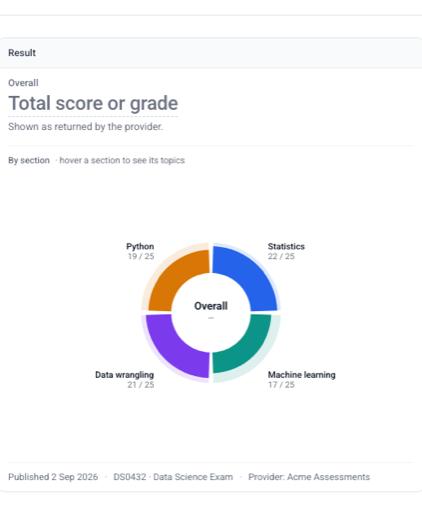
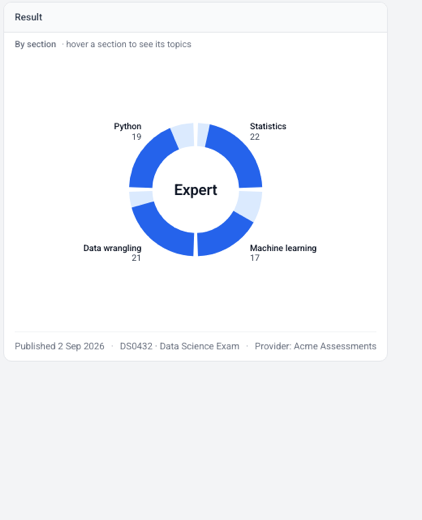
Score views study: new donut and the PM's intro copy
The donut uses one shade: the ring in its light tone, the scored part
solid, each section filling from the bottom up. The result sits in the
centre, and sections show just the score (17, not 17 / 25).

diff --git a/feedback/prototype.html b/feedback/prototype.html
@@ -1465,6 +1465,10 @@ input.edt{height:34px}
 .radj{display:flex;gap:7px;align-items:flex-start;margin:0 0 6px 22px;padding:6px 9px;border-radius:7px;background:var(--o50);color:var(--o700);font:400 12px/18px var(--font)}
 .radj svg{width:12px;height:12px;flex:0 0 auto;margin-top:3px}
 .radj b{font-weight:500}.radj s{color:var(--tt)}
+
+/* an embedded certificate fills the section width */
+.cembed{margin:12px 0 4px;border:1px solid var(--border);border-radius:10px;overflow:hidden;background:var(--g50)}
+.cembed .cpin{margin:0;width:100%;max-width:none;box-shadow:none;border-radius:0}
 /* study mode: only the result panel, full width, scrolling normally */
 .solo .proto,.solo .rail,.solo .main,.solo .dcbtn,.solo .phead,.solo .screen>.shead{display:none!important}
 .solo body,.solo .app,.solo .scrim,.solo .drawer,.solo .screen,.solo .sbody{background:#F3F4F6!important}
@@ -1473,6 +1477,30 @@ input.edt{height:34px}
 .solo .drawer{width:100%;max-width:none;height:100%;box-shadow:none}
 .solo .sin{padding:2px 4px 28px}
 .solo .tcard{margin-top:0}
+/* donut, one shade: light tone for the ring, solid for what was scored */
+.dnw3{--dh:#2563EB;--dl:#DBEAFE;max-width:470px;margin:2px auto 0}
+.dnw3.st{max-width:400px;pointer-events:none}
+.dnw3.one{max-width:210px}
+.dn3{display:block;width:100%;height:auto;overflow:visible}
+.dn3 .dsec{outline:none}
+.dn3 .dhit{fill:transparent}
+.dn3 .drt,.dn3 .dot{fill:var(--dl)}
+.dn3 .drf,.dn3 .dof{fill:var(--dh)}
+.dn3 text{font-family:var(--font);fill:var(--tp)}
+.dn3 .t1{font-size:12px;font-weight:500}
+.dn3 .t2{font-size:12px;fill:var(--ts)}
+.dn3 .dsl .t1{font-size:10.5px}.dn3 .dsl .t2{font-size:10.5px}
+.dn3 .dc0{font-weight:600;fill:var(--tp);letter-spacing:-.01em}
+.dn3 .din,.dn3 .dlab,.dn3 .dc0,.dn3 .dctr{transition:opacity .2s ease}
+.dn3 .dctr{opacity:0}.dn3 .dctr .t1{font-size:13px;font-weight:600}.dn3 .dctr .t2{font-size:12.5px}
+.dn3 .douter{opacity:0;transform:scale(.9);transform-box:view-box;transform-origin:180px 170px;pointer-events:none;
+ transition:opacity .28s ease,transform .38s cubic-bezier(.2,.8,.2,1)}
+.dn3 .dsec:hover .douter,.dn3 .dsec:focus-visible .douter{opacity:1;transform:scale(1)}
+.dn3:has(.dsec:hover,.dsec:focus-visible) .dc0{opacity:0}
+.dn3 .dsec:hover .dctr,.dn3 .dsec:focus-visible .dctr{opacity:1}
+.dn3:has(.dsec:hover,.dsec:focus-visible) .dlab{opacity:0}
+.dn3:has(.dsec:hover,.dsec:focus-visible) .dsec:not(:hover):not(:focus-visible) .din{opacity:.35}
+@media (prefers-reduced-motion:reduce){.dn3 .douter,.dn3 .din,.dn3 .dlab,.dn3 .dctr,.dn3 .dc0{transition:none}}
 </style>
 <div class="proto"><span class="ttl">Candidate profile · v2 · Coordinator Console</span>
   <span class="hint">Feedback prototype · three candidates, one score view each</span></div>
@@ -4105,10 +4133,12 @@ function credDetailH(X,x){const st=credStatus(X,x), T=(h,i)=>`<div class="tcard"
  const why=X.why&&(X.cs==='withheld'||X.cs==='revoked'||X.cs==='disqualified')?`<p class="cwhy"><span>${E(st.k)} ${E(X.on||'')}</span>${E(X.why)}</p>`:'';
  const tiles=[];
  if(X.badge) tiles.push(`<button class="ctile" data-act3="${E(X.where||'View badge')}"><span class="cti">${BADGE_ART}</span><span class="bd"><b>Badge</b><span>View on ${E(X.issuer)}</span></span>${IV.ext}</button>`);
- if(X.cert){const k='pdf'+(ZK++);tiles.push(`<button class="ctile" data-pdfopen="${k}"><span class="cti cert">${CERT_ART}</span><span class="bd"><b>Certificate</b><span>PDF · 1 page</span></span>${IV.ext}</button>${pdfModalH({kind:'pdf',file:'Certificate_'+X.id+'.pdf',pages:1,html:`<span class="pk">${E(X.issuer)}</span><b class="ph">${E(CFG.cred)}</b><span class="pm">Awarded to ${E(x.name)} · ${E(X.issued)}</span><span class="pm">Credential ID ${E(X.id)}</span>`},x,k)}`);}
+ /* a certificate we hold can sit right in the section, shown as the certificate itself */
+ const certEmbed=X.cert&&X.embed?`<div class="cembed">${certDoc({id:X.id,on:X.issued,till:X.expires},1).replace(/<span class="cpb">[\s\S]*?<\/span>/,'').replace(/ tier t-\w+/,'')}</div>`:'';
+ if(X.cert&&!X.embed){const k='pdf'+(ZK++);tiles.push(`<button class="ctile" data-pdfopen="${k}"><span class="cti cert">${CERT_ART}</span><span class="bd"><b>Certificate</b><span>PDF · 1 page</span></span>${IV.ext}</button>${pdfModalH({kind:'pdf',file:'Certificate_'+X.id+'.pdf',pages:1,html:`<span class="pk">${E(X.issuer)}</span><b class="ph">${E(CFG.cred)}</b><span class="pm">Awarded to ${E(x.name)} · ${E(X.issued)}</span><span class="pm">Credential ID ${E(X.id)}</span>`},x,k)}`);}
  const none=!ISSUED[X.cs]?`<p class="cnone">${X.cs==='disqualified'?'Nothing was issued.':'The badge and certificate appear here once the credential is issued.'}</p>`:'';
  const meta=!ISSUED[X.cs]?[`Issued by ${E(X.issuer)}`,'Not issued']:[`Issued by ${E(X.issuer)}`,E(X.id),`Issued ${E(X.issued)}`,(X.cs==='expired'?'Expired ':'Expires ')+E(X.expires)];
- return T('Credential',why+(tiles.length?`<div class="ctiles">${tiles.join('')}</div>`:none)+`<p class="sfoot cid">${meta.map(m=>`<span>${m}</span>`).join('')}</p>`)
+ return T('Credential',why+certEmbed+(tiles.length?`<div class="ctiles">${tiles.join('')}</div>`:certEmbed?'':none)+`<p class="sfoot cid">${meta.map(m=>`<span>${m}</span>`).join('')}</p>`)
   +(X.attrs&&X.attrs.length&&ISSUED[X.cs]?T('From '+E(X.issuer),blockH(ROWS('',X.attrs.map(r=>[E(r[0]),E(r[1])])))):'');}
 function credActs(X){const b=(t,cls,at)=>`<button class="btn ${cls||''}" ${at}>${E(t)}</button>`;
  return {review:b('Withhold','',`data-act3="Withhold the credential"`)+b('Issue credential','pri',`data-act3="Issue the credential"`),
@@ -4116,7 +4146,7 @@ function credActs(X){const b=(t,cls,at)=>`<button class="btn ${cls||''}" ${at}>$
   disqualified:'',revoked:b('Reissue','',`data-act3="Reissue the credential"`),expired:b('Renew','pri',`data-act3="Renew the credential"`)}[X.cs]||'';}
 /* the three candidates' credentials, in the standard model */
 (function(){const S=(id,o)=>{const c=CANDS.find(z=>z.id===id); if(c) c.xcred=Object.assign({mode:'std',issuer:'Credly',attrs:[['Skills','Statistics, Machine learning, SQL, Python'],['Earning criteria','Pass DS0432 Data Science Exam']]},o);};
- S('ethan',{cs:'credentialed',pub:'16 Sep 2026',issuer:'Talview',badge:1,cert:1,id:'CERT-DS-44207',issued:'16 Sep 2026',expires:'16 Sep 2028',where:'Open public page',attrs:[]});
+ S('ethan',{cs:'credentialed',pub:'16 Sep 2026',issuer:'Talview',badge:1,cert:1,embed:1,id:'CERT-DS-44207',issued:'16 Sep 2026',expires:'16 Sep 2028',where:'Open public page',attrs:[]});
  S('liam',{cs:'expired',badge:1,cert:0,id:'CR-54872',issued:'20 Jul 2026',expires:'20 Sep 2026',where:'View on Credly'});
  S('mason',{cs:'revoked',badge:1,cert:1,id:'CR-53310',issued:'8 Aug 2026',expires:'8 Aug 2028',on:'12 Aug 2026',why:'Issued before the dispute closed',where:'View on Credly'});
  S('james',{cs:'withheld',on:'30 Aug 2026',why:'Held by Divya K. for an identity re-check'});
@@ -4189,6 +4219,42 @@ function payBits(c,pay){
  const q=new URLSearchParams(location.search), id=q.get('open'), i=CANDS.findIndex(c=>c.id===id);
  if(i>-1){ci=i;open=true;stack=['det:scoring|Assessment result'];}
  if(q.get('solo')) document.documentElement.classList.add('solo');})();
+/* donut: one shade — the whole ring in its light tone, the scored part solid, each section filling from the bottom up */
+const dv=v=>v.na?'Not attempted':v.m?String(v.m[0]):(CFG.card.lv[v.lv-1]||'Not assessed');
+const dfull=v=>v.na?'Not attempted':v.m?v.m[0]+' of '+v.m[1]:(CFG.card.lv[v.lv-1]||'Not assessed');
+const dfrac=v=>v.na?0:nv(v);
+const ovOf=b=>b.t==='one'?dv(b.v):b.t==='stot'?String(+F1(b.s.n)):String(b.ov);
+function donutHvH(S,b,live){
+ const one=b.t==='one'; if(one) S=[{n:'Result',sh:'',v:b.v,subs:[]}];
+ const cx=180, cy=170, r0=one?66:60, r1=one?96:92, r2=99, r3=124, n=S.length, sp=360/n, g=n>1?4:0, gs=2.4;
+ const P=(a,r)=>[cx+r*Math.cos((a-90)*Math.PI/180),cy+r*Math.sin((a-90)*Math.PI/180)], f1=v=>v.toFixed(2);
+ const arc=(a0,a1,ra,rb)=>{
+  if(a1-a0>=359.9) return `M${cx} ${cy-rb}A${rb} ${rb} 0 1 1 ${cx} ${cy+rb}A${rb} ${rb} 0 1 1 ${cx} ${cy-rb}ZM${cx} ${cy-ra}A${ra} ${ra} 0 1 0 ${cx} ${cy+ra}A${ra} ${ra} 0 1 0 ${cx} ${cy-ra}Z`;
+  const p0=P(a0,rb),p1=P(a1,rb),p2=P(a1,ra),p3=P(a0,ra),L=a1-a0>180?1:0;
+  return `M${f1(p0[0])} ${f1(p0[1])}A${rb} ${rb} 0 ${L} 1 ${f1(p1[0])} ${f1(p1[1])}L${f1(p2[0])} ${f1(p2[1])}A${ra} ${ra} 0 ${L} 0 ${f1(p3[0])} ${f1(p3[1])}Z`;};
+ /* the part of a section nearest the bottom of the ring, as long as the score */
+ const low=(a0,a1,f)=>{const L=(a1-a0)*Math.max(0,Math.min(1,f)); if(L<=0.01) return null; if(L>=a1-a0-0.01) return [a0,a1];
+  if(a0<=180&&180<=a1){let s=180-L/2,e=180+L/2; if(s<a0){e+=a0-s;s=a0;} if(e>a1){s-=e-a1;e=a1;} return [s,e];}
+  return a1<=180?[a1-L,a1]:[a0,a0+L];};
+ const seg=(a0,a1,ra,rb,v,cls)=>{const q=low(a0,a1,dfrac(v));return `<path d="${arc(a0,a1,ra,rb)}" class="${cls}t"/>${q?`<path d="${arc(q[0],q[1],ra,rb)}" class="${cls}f"/>`:''}`;};
+ const txt=(a,r,l1,l2,cls)=>{const [x,y]=P(a,r), an=x>cx+6?'start':x<cx-6?'end':'middle', dy=y<cy-r*.6?-8:y>cy+r*.6?10:0;
+   return `<text class="${cls}" x="${f1(x)}" y="${f1(y+dy)}" text-anchor="${an}"><tspan class="t1">${E(l1)}</tspan><tspan class="t2" x="${f1(x)}" dy="14">${E(l2)}</tspan></text>`;};
+ const big=(l,cls)=>{const s=String(l), fs=s.length>9?17:s.length>5?21:30;return `<text class="${cls}" x="${cx}" y="${cy+fs*.36}" text-anchor="middle" style="font-size:${fs}px">${E(s)}</text>`;};
+ const hov=(x)=>{const L=wrap2(x.n,13);return `<text class="dctr" x="${cx}" y="${cy-(L.length-1)*8-3}" text-anchor="middle">${L.map((s,i)=>`<tspan class="t1" x="${cx}" ${i?'dy="15"':''}>${E(s)}</tspan>`).join('')}<tspan class="t2" x="${cx}" dy="16">${E(dfull(x.v))}</tspan></text>`;};
+ const secs=S.map((x,i)=>{const a0=i*sp+g/2, a1=(i+1)*sp-g/2, m=x.subs.length, ss=(a1-a0)/Math.max(m,1);
+  const ring=`<g class="din">${seg(a0,a1,r0,r1,x.v,'dr')}</g>`, lab=one?'':txt((a0+a1)/2,r1+14,x.sh,dv(x.v),'dlab');
+  if(!live||one) return `<g class="dsec st">${ring}${lab}</g>`;
+  const subs=x.subs.map((y,j)=>{const s0=a0+j*ss+(j?gs/2:0), s1=a0+(j+1)*ss-(j<m-1?gs/2:0);
+    return seg(s0,s1,r2,r3,y.v,'do')+txt((s0+s1)/2,r3+11,y.n,dv(y.v),'dsl');}).join('');
+  return `<g class="dsec" tabindex="0" role="button" aria-label="${E(x.n+', '+dfull(x.v)+(m?'. Topics: '+x.subs.map(y=>y.n+' '+dfull(y.v)).join(', '):''))}">
+    <path d="${arc(a0,a1,r0,(m?r3:r1)+2)}" class="dhit"/>${ring}${lab}${m?`<g class="douter">${subs}</g>`:''}${hov(x)}</g>`;}).join('');
+ const vb=one?'60 50 240 240':live?'-70 -14 500 368':'-10 40 380 262';
+ return `<div class="dnw3 ${live?'':'st'} ${one?'one':''}"><svg class="dn3" viewBox="${vb}" role="img" aria-label="${E((one?'':S.map(x=>x.sh+' '+dfull(x.v)).join(', ')+'. ')+'Result '+ovOf(b))}">${secs}${big(ovOf(b),'dc0')}</svg></div>`;}
+/* the donut carries the result in its centre, so it needs no separate overall line */
+function ovBlockH(b,oi,cmp){
+ if(b&&b.viz==='donut') return '';
+ return `<div class="ovs solo ${cmp?'cmp':''}"><div class="ovt"><span class="k">Overall</span><b class="ovres ph">Total score or grade</b><p class="ovp ph">Shown as returned by the provider.</p></div></div>`;}
+
 render();
 </script>
 

diff --git a/feedback/index.html b/feedback/index.html
@@ -121,7 +121,7 @@ main.tasking{padding:0}
  <div class="narrow">
   <span class="eyebrow">Coordinator Console</span>
   <h1>Which score view reads best?</h1>
-  <p class="lead">We have three ways to show a candidate's exam result. Help us pick the one that's quickest to read.</p>
+  <p class="lead">We are working on enhancing the cards for showing candidate details to the coordinator. We have a few variations on how we can represent the exam score for the coordinator to have a look at. Help us pick the one that's quickest to read.</p>
   <div class="how3"><div><b>3 views</b>Each shows one candidate's result</div><div><b>1 task each</b>Find their lowest section and topic</div><div><b>Pick one</b>Tell us why, with a tap</div></div>
   <div class="meta"><span>About 4 minutes</span><span>Use a laptop or desktop</span></div>
   <div class="who2">
@@ -197,7 +197,7 @@ main.tasking{padding:0}
     </ol>
     <div class="act"><button class="btn pri" data-task disabled>${n<2?'Next view':'Pick your favourite'}</button><button class="back" data-back>Back</button></div>
    </aside>
-   <div class="view"><iframe title="${esc(first)}’s result, ${esc(v.name)} view" data-src="prototype.html?open=${v.who}&solo=1"></iframe></div>
+   <div class="view"><iframe title="${esc(first)}’s result, ${esc(v.name)} view" data-src="prototype.html?open=${v.who}&solo=1&v=20261016c"></iframe></div>
   </div>`;
   const val=q=>{const i=sec.querySelector(`[data-q="${q}"] input:checked`);return i?i.value:'';};
   const btn=sec.querySelector('[data-task]');
